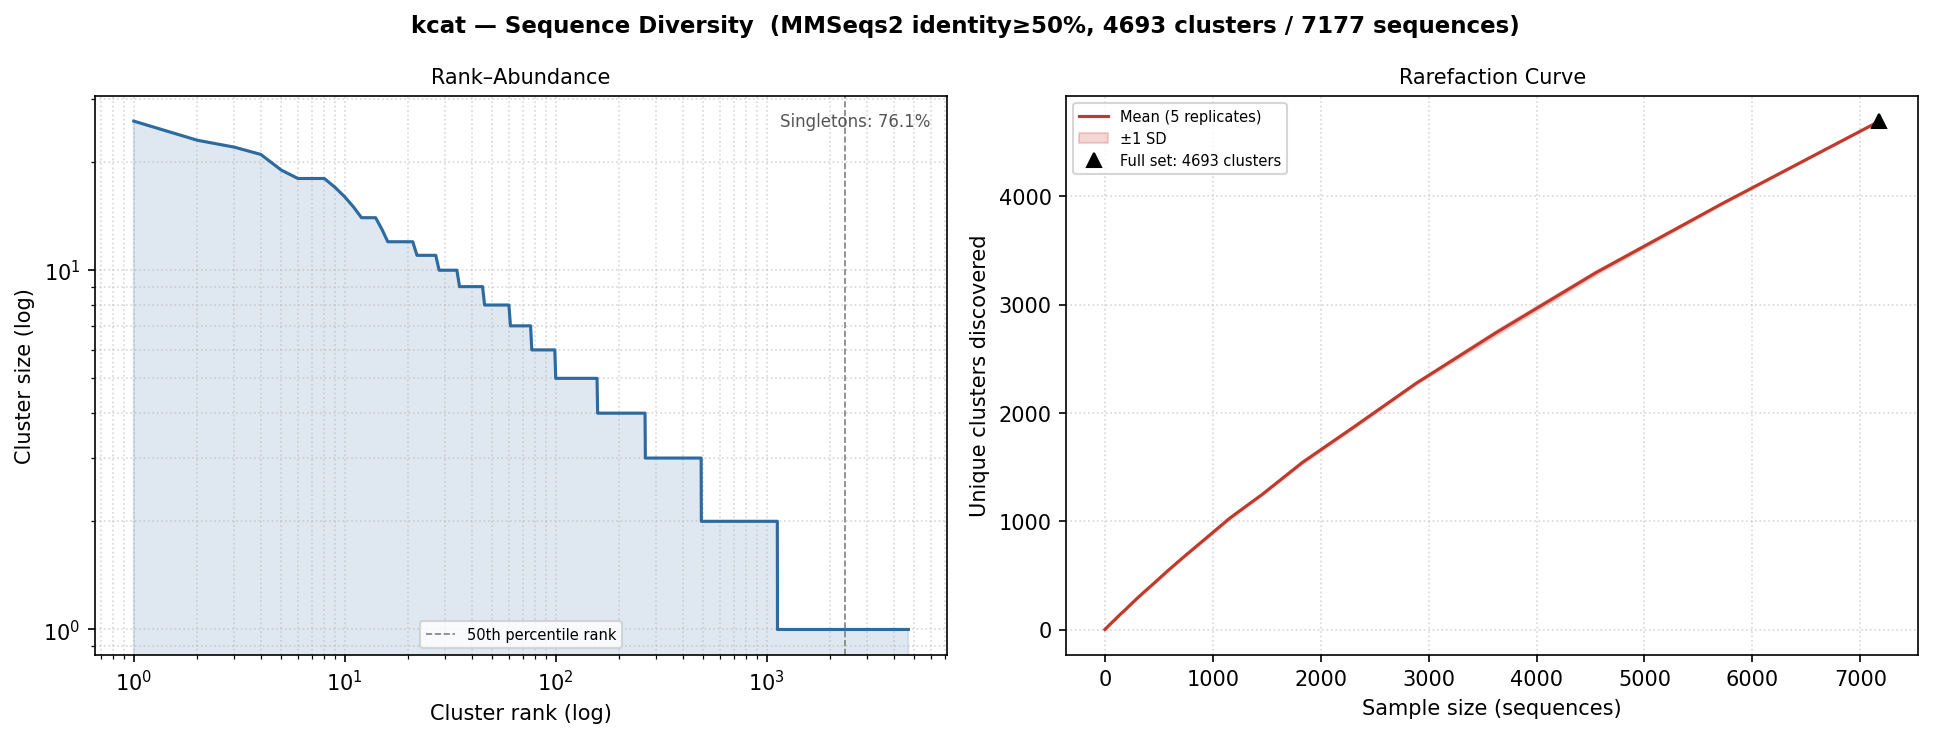
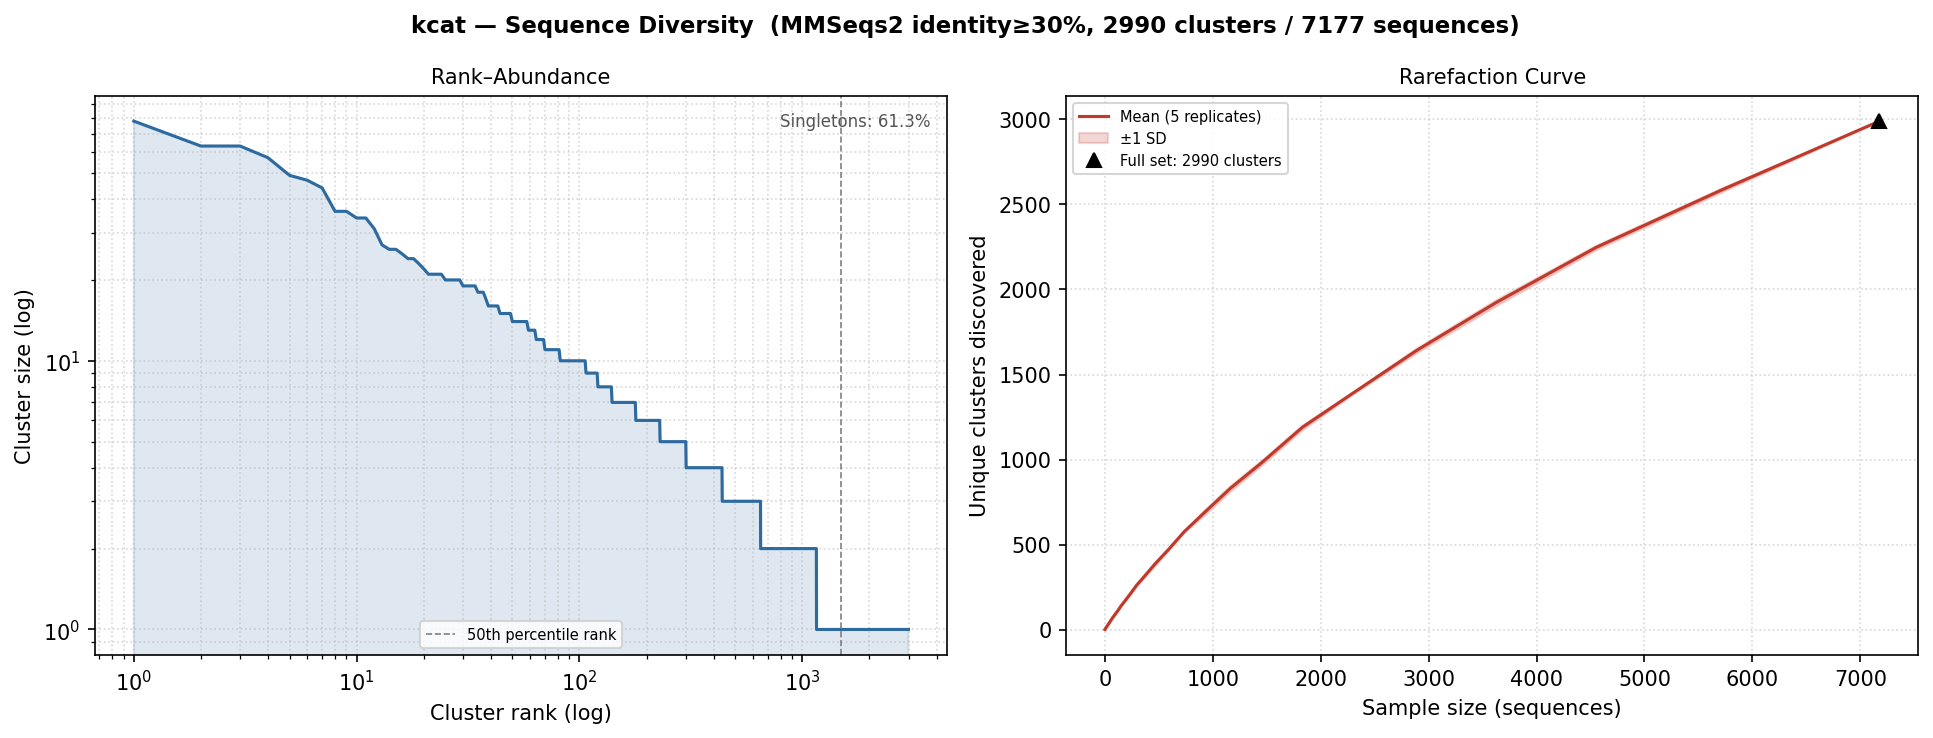
30% identity update for mmseqs2 clustering info

diff --git a/src/dataset_card/dataset_card_populator.py b/src/dataset_card/dataset_card_populator.py
@@ -722,7 +722,7 @@ if __name__ == "__main__":
     parser.add_argument("--emb_model", default=None,
                         help="Embedding model for UMAP (e.g. esm2_650M). Skipped if not provided.")
     parser.add_argument("--embeddings_json", default="embeddings_models_output.json")
-    parser.add_argument("--seq_identity", type=float, default=0.5,
+    parser.add_argument("--seq_identity", type=float, default=0.3,
                         help="MMSeqs2 min-seq-id for whole-dataset clustering. Default: 0.5")
     args = parser.parse_args()
     DatasetCardPopulator(

diff --git a/scripts/dataset_card/create_dataset_cards.py b/scripts/dataset_card/create_dataset_cards.py
@@ -29,7 +29,7 @@ if __name__ == "__main__":
         help="Path to embeddings_models_output.json. Default: embeddings_models_output.json"
     )
     parser.add_argument(
-        "--seq_identity", type=float, default=0.5,
+        "--seq_identity", type=float, default=0.3,
         help=(
             "MMSeqs2 min-seq-id threshold for whole-dataset diversity clustering. "
             "Default: 0.5 (50%%). Clustering is skipped if mmseqs is not in PATH."
